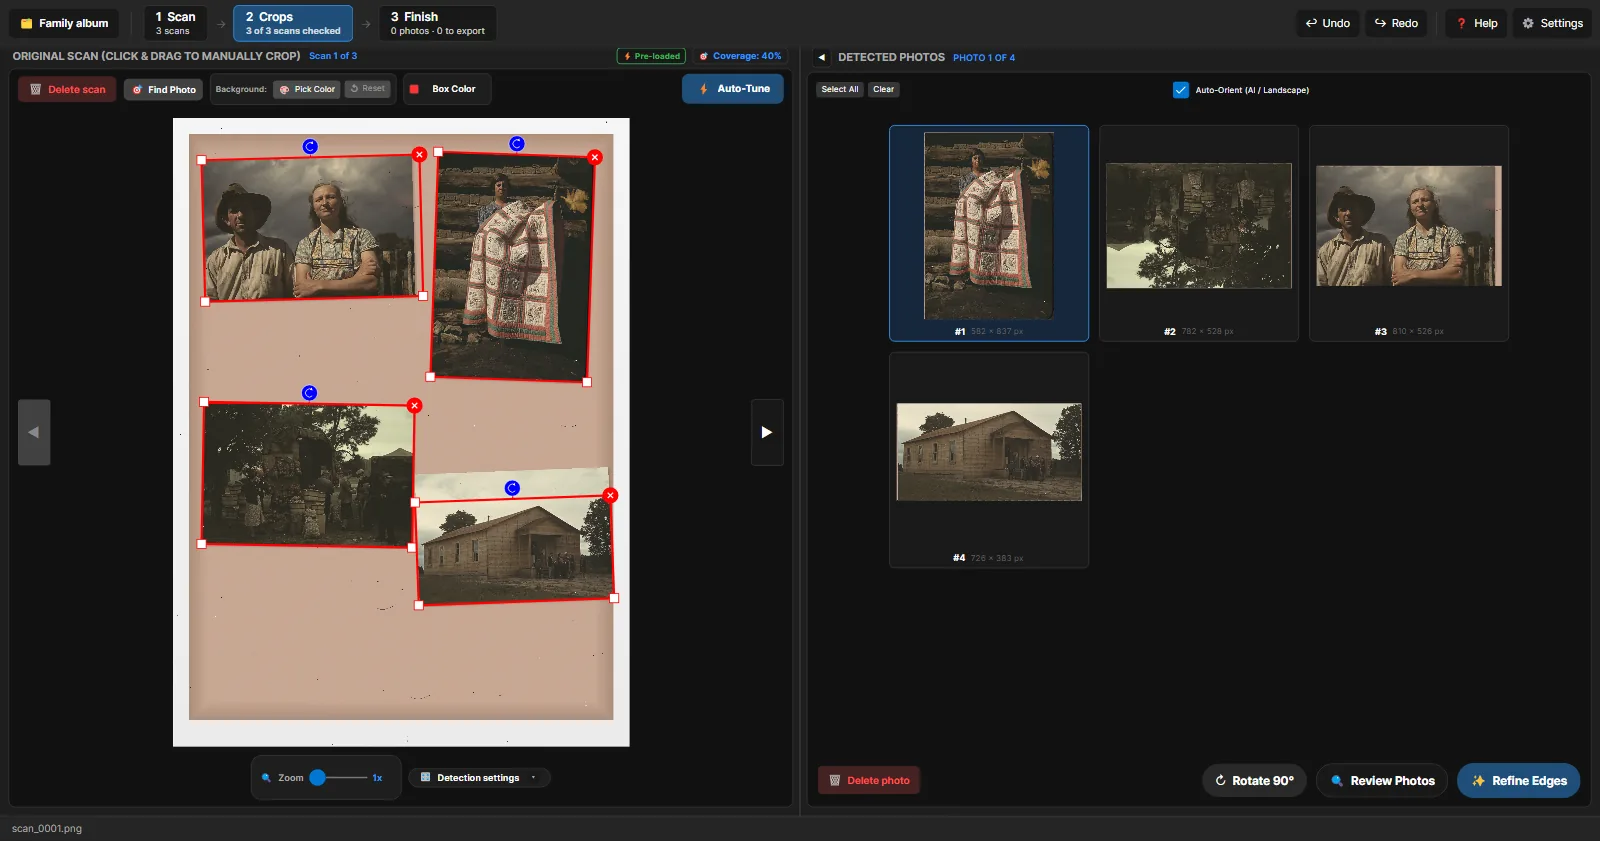
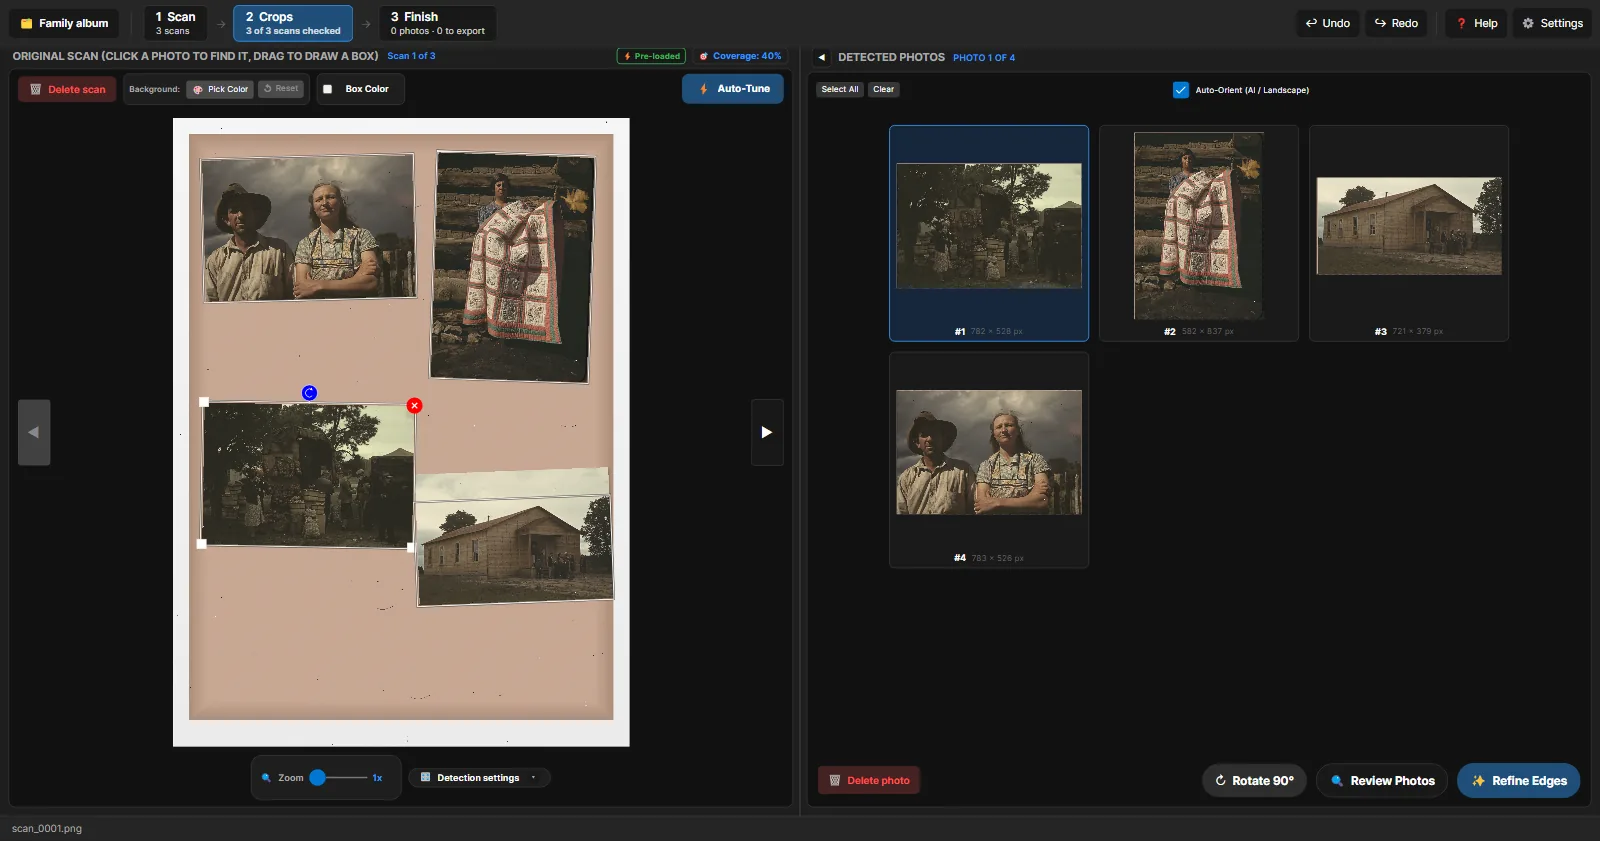
docs(tutorial): retake screenshots for 3.3.0
Crops no longer has a Find Photo button, boxes are thin soft-white
lines with handles only on the selected box, and Finish has the type
chips and per-photo checkboxes. Detection now finds every photo on the
demo album's dark page and turns all of page 1 upright, so the
"no photos found / draw by hand" and "upside down" walkthroughs are
reworded around what the app does now.

diff --git a/docs/TUTORIAL.md b/docs/TUTORIAL.md
@@ -64,11 +64,11 @@ Most scans need nothing. The stage bar's **"3 of 3 scans checked"** only counts 
 by the detector; you don't have to open every one, and scans you never open are cropped automatically when you
 go to Finish.
 
-Look at the thumbnails on the right. In this page, two things are wrong:
+Look at the boxes and the thumbnails on the right. In this page, one thing is wrong: **the church's box cuts off
+its sky** (thumbnail #3). The pale sky was taken for the page. See the next section.
 
-- **#2 is upside down.** Automatic orientation gets most photos right (it looks for faces, sky and landscape),
-  but not all. Select the photo and click **Rotate 90°** (or press `R`) until it's upright.
-- **Box 4 cuts off the church's sky.** The pale sky was taken for the page. See the next section.
+If a photo comes out sideways or upside down, select it and click **Rotate 90°** (or press `R`) until it's
+upright. Automatic orientation gets most photos right (it looks for faces, sky and landscape), but not all.
 
 ### Fix a box that's wrong
 
@@ -88,19 +88,15 @@ boxes are just a thin line around their photo, so their edges stay easy to see).
 
 ### When no photos are found: draw the boxes yourself
 
-Some pages defeat the automatic detection. Here the photos are on a dark grey page, and nothing is found:
+Most pages work even when they're far from plain white. Here the photos are on a dark grey page, and all four
+are found:
 
-![A dark album page with four photos and "No photos detected"](images/04-crops-no-photos.webp)
+![A dark grey album page with all four photos boxed](images/04-crops-dark-page.webp)
 
-First try **Auto-Tune**, which searches for detection settings that work on this scan. If that doesn't help,
-**click and drag** on the scan to draw a box around each photo. The box doesn't have to be exact; you can fix
-its corners afterwards.
-
-![One box drawn by hand around the first photo](images/05-crops-manual-box.webp)
-
-![All four photos boxed by hand](images/06-crops-manual-all.webp)
-
-Here #3 came out sideways; **Rotate 90°** fixes it as before.
+Some pages still defeat the automatic detection. First try **clicking each photo**, as above. Then try
+**Auto-Tune**, which searches for detection settings that work on this scan. If that doesn't help, **click and
+drag** on the scan to draw a box around each photo. The box doesn't have to be exact; you can fix its corners
+afterwards.
 
 ### Photos stuck in sideways
 
